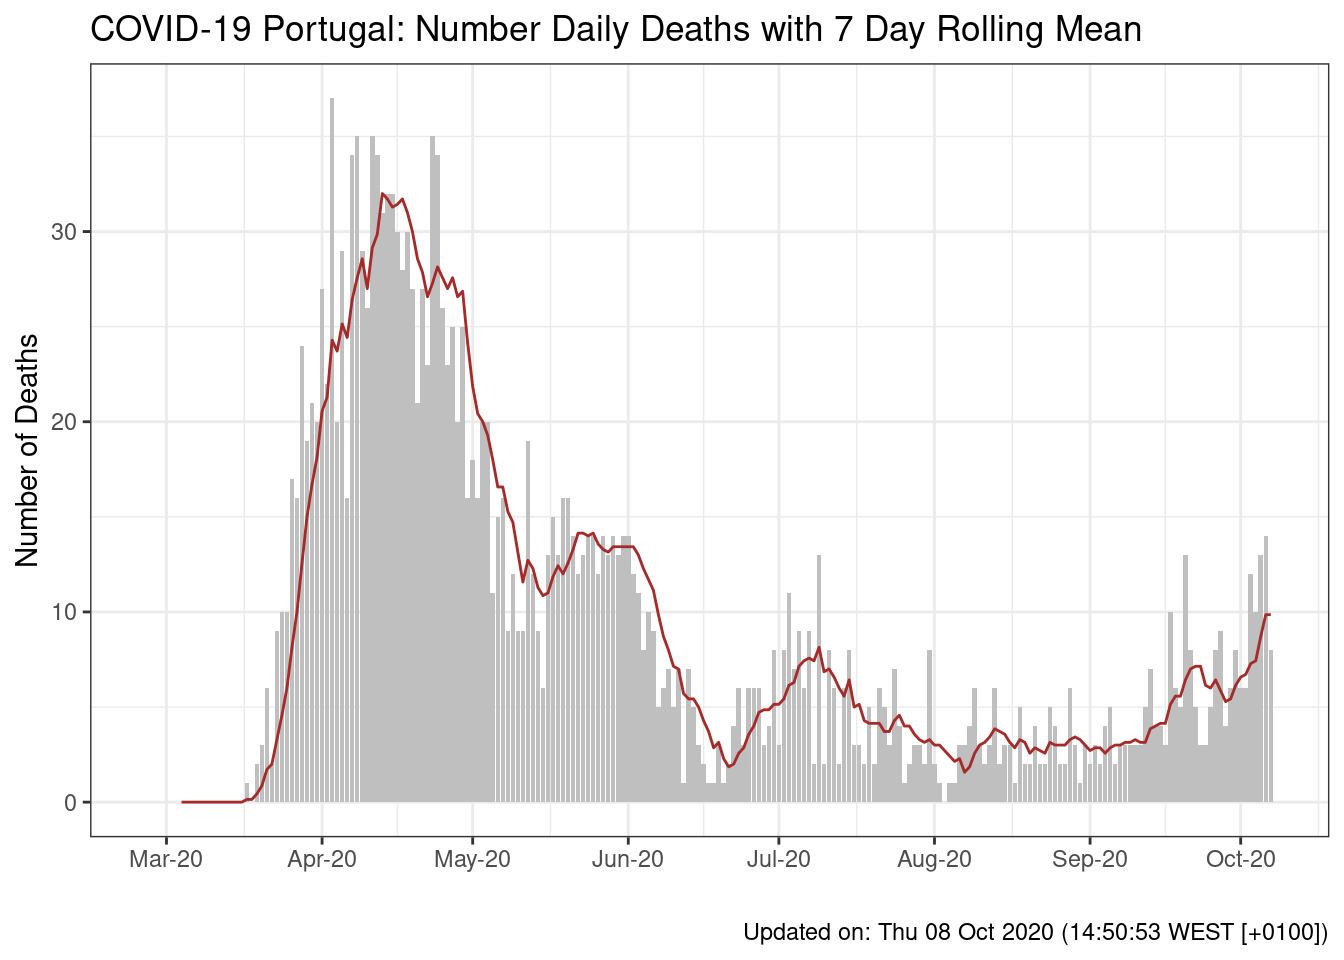
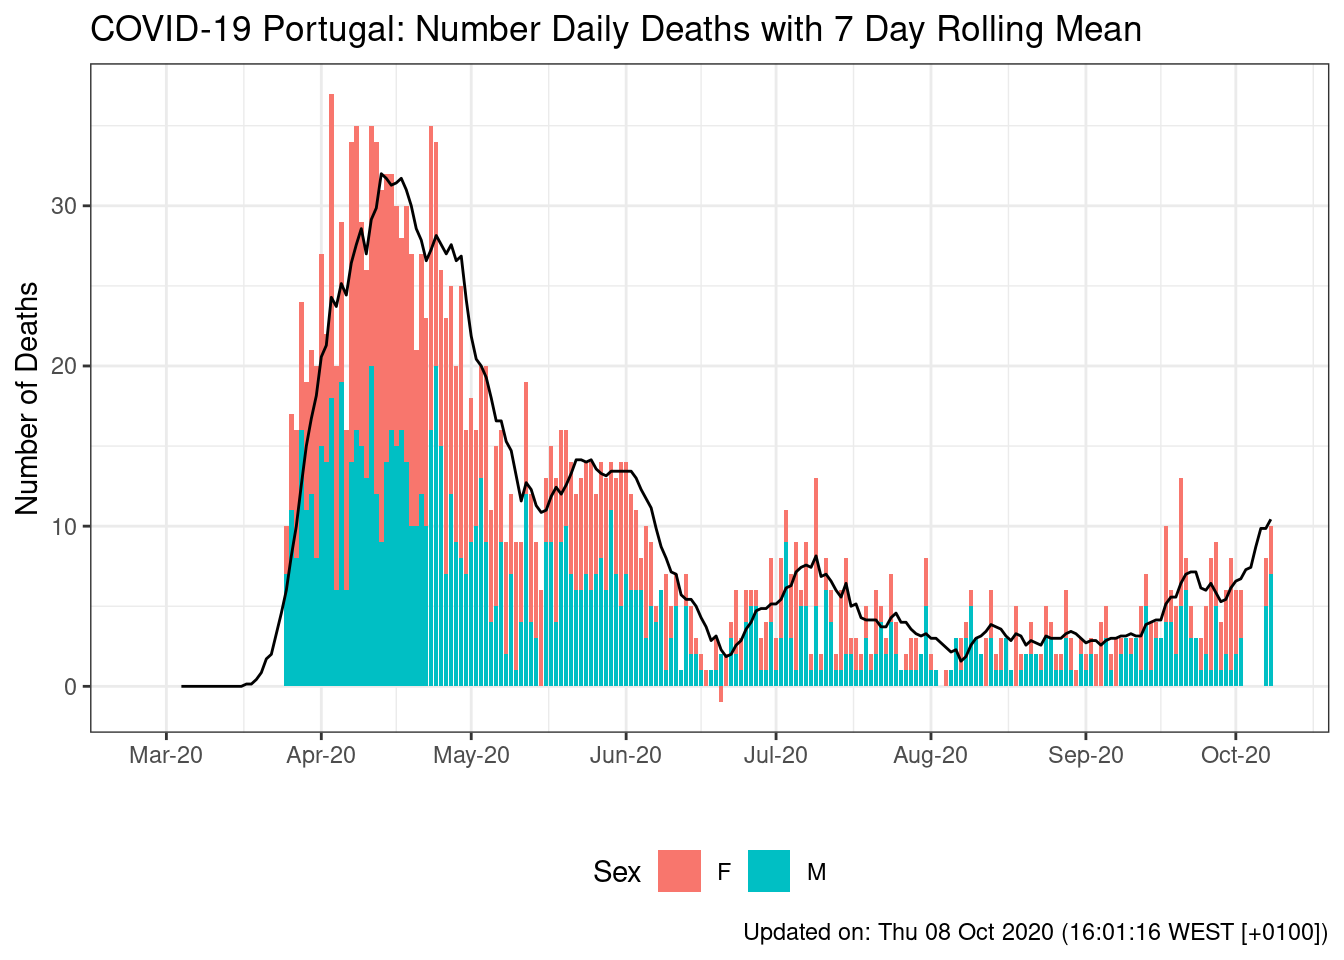
Manual data update and correction to by sex graph

diff --git a/README.md b/README.md
@@ -4,9 +4,9 @@ README](https://github.com/CEAUL/Dados_COVID-19_PT/workflows/Render%20README/bad
 
 ## Daily Portuguese COVID-19 Data
 
-**Last updated: Thu 08 Oct 2020 (14:50:52 WEST \[+0100\])**
+**Last updated: Thu 08 Oct 2020 (16:01:15 WEST \[+0100\])**
 
-  - Data available from **26 Feb 2020** until **07 Oct 2020** (225
+  - Data available from **26 Feb 2020** until **08 Oct 2020** (226
     days).
 
 ### Download User Friendly Version
@@ -45,18 +45,18 @@ The original data were downloaded from an API provide by VOST
 
 ### Summary: Last 10 (available) Days
 
-|            Date | Cases\_7\_Day\_Mean |        Cases |       Active |    Recovered |     Deaths |
-| --------------: | ------------------: | -----------: | -----------: | -----------: | ---------: |
-| Mon 28 Sep 2020 |               689.9 | 74029 (+425) | 24188 (+184) | 47884 (+237) |  1957 (+4) |
-| Tue 29 Sep 2020 |               722.0 | 74717 (+688) | 24561 (+373) | 48193 (+309) |  1963 (+6) |
-| Wed 30 Sep 2020 |               725.3 | 75542 (+825) | 25041 (+480) | 48530 (+337) |  1971 (+8) |
-| Thu 01 Oct 2020 |               748.6 | 76396 (+854) | 25482 (+441) | 48937 (+407) |  1977 (+6) |
-| Fri 02 Oct 2020 |               747.0 | 77284 (+888) | 25942 (+460) | 49359 (+422) |  1983 (+6) |
-| Sat 03 Oct 2020 |               758.3 | 78247 (+963) | 26407 (+465) | 49845 (+486) | 1995 (+12) |
-| Sun 04 Oct 2020 |               792.4 | 79151 (+904) | 26939 (+532) | 50207 (+362) | 2005 (+10) |
-| Mon 05 Oct 2020 |               836.6 | 79885 (+734) | 27413 (+474) | 50454 (+247) | 2018 (+13) |
-| Tue 06 Oct 2020 |               799.3 | 80312 (+427) | 27568 (+155) | 50712 (+258) | 2032 (+14) |
-| Wed 07 Oct 2020 |               816.3 | 81256 (+944) | 28179 (+611) | 51037 (+325) |  2040 (+8) |
+|            Date | Cases\_7\_Day\_Mean |         Cases |       Active |    Recovered |     Deaths |
+| --------------: | ------------------: | ------------: | -----------: | -----------: | ---------: |
+| Tue 29 Sep 2020 |               722.0 |  74717 (+688) | 24561 (+373) | 48193 (+309) |  1963 (+6) |
+| Wed 30 Sep 2020 |               725.3 |  75542 (+825) | 25041 (+480) | 48530 (+337) |  1971 (+8) |
+| Thu 01 Oct 2020 |               748.6 |  76396 (+854) | 25482 (+441) | 48937 (+407) |  1977 (+6) |
+| Fri 02 Oct 2020 |               747.0 |  77284 (+888) | 25942 (+460) | 49359 (+422) |  1983 (+6) |
+| Sat 03 Oct 2020 |               758.3 |  78247 (+963) | 26407 (+465) | 49845 (+486) | 1995 (+12) |
+| Sun 04 Oct 2020 |               792.4 |  79151 (+904) | 26939 (+532) | 50207 (+362) | 2005 (+10) |
+| Mon 05 Oct 2020 |               836.6 |  79885 (+734) | 27413 (+474) | 50454 (+247) | 2018 (+13) |
+| Tue 06 Oct 2020 |               799.3 |  80312 (+427) | 27568 (+155) | 50712 (+258) | 2032 (+14) |
+| Wed 07 Oct 2020 |               816.3 |  81256 (+944) | 28179 (+611) | 51037 (+325) |  2040 (+8) |
+| Thu 08 Oct 2020 |               876.9 | 82534 (+1278) | 28967 (+788) | 51517 (+480) | 2050 (+10) |
 
 Change from previous day in brackets.
 
@@ -81,19 +81,19 @@ CVPT <- fread(here("data", "covid19pt_DSSG_Long.csv"))
 # Looking at the data:
 tail(CVPT)
 ##          data   origVars   origType other symptoms sex ageGrpLower ageGrpUpper
-## 1: 2020-10-02 vigilancia vigilancia                All                        
-## 2: 2020-10-03 vigilancia vigilancia                All                        
-## 3: 2020-10-04 vigilancia vigilancia                All                        
-## 4: 2020-10-05 vigilancia vigilancia                All                        
-## 5: 2020-10-06 vigilancia vigilancia                All                        
-## 6: 2020-10-07 vigilancia vigilancia                All                        
+## 1: 2020-10-03 vigilancia vigilancia                All                        
+## 2: 2020-10-04 vigilancia vigilancia                All                        
+## 3: 2020-10-05 vigilancia vigilancia                All                        
+## 4: 2020-10-06 vigilancia vigilancia                All                        
+## 5: 2020-10-07 vigilancia vigilancia                All                        
+## 6: 2020-10-08 vigilancia vigilancia                All                        
 ##    ageGrp   region value valueUnits
-## 1:        Portugal 45613      Count
-## 2:        Portugal 46228      Count
-## 3:        Portugal 46348      Count
-## 4:        Portugal 46272      Count
-## 5:        Portugal 46437      Count
-## 6:        Portugal 46023      Count
+## 1:        Portugal 46228      Count
+## 2:        Portugal 46348      Count
+## 3:        Portugal 46272      Count
+## 4:        Portugal 46437      Count
+## 5:        Portugal 46023      Count
+## 6:        Portugal 46182      Count
 
 # Order data by original variable name and date.
 setkeyv(CVPT, c("origVars", "data"))
@@ -116,11 +116,14 @@ library(magrittr)
 
 # Change the ggplot theme.
 theme_set(theme_bw())
+obMF <- CV[origType=="obitos" & sex %chin% c("M", "F") & ageGrp=="" & region == "Portugal"]
+obAll <- CV[origType=="obitos" & sex %chin% c("All") & ageGrp=="" & region == "Portugal"][ 
+  , sex := NA]
 
-CV[origType=="obitos" & sex %chin% c("All") & ageGrp=="" & region == "Portugal"] %>%
-  ggplot(aes(x=data, y=dailyChange)) +
-  geom_bar(stat = "identity", fill = "grey75") +
-  geom_line(aes(x = data, y = mean7Day), group=1, colour = "brown") +
+obMF %>% 
+  ggplot(aes(x=data, y=dailyChange, fill = sex)) +
+  geom_bar(stat = "identity") +
+  geom_line(data = obAll, aes(x = data, y = mean7Day), group=1) +
   scale_x_date(date_breaks = "1 months",
                date_labels = "%b-%y",
                limits = c(min(cvwd$data2, na.rm = TRUE), NA)) +
@@ -130,9 +133,10 @@ CV[origType=="obitos" & sex %chin% c("All") & ageGrp=="" & region == "Portugal"]
     x = "",
     y = "Number of Deaths",
     fill = "Sex",
+    colour = "",
     caption = paste0("Updated on: ", format(Sys.time(), "%a %d %b %Y (%H:%M:%S %Z [%z])"))
     )
-## Warning: Removed 1 rows containing missing values (position_stack).
+## Warning: Removed 64 rows containing missing values (position_stack).
 ## Warning: Removed 7 row(s) containing missing values (geom_path).
 ```
 
@@ -156,7 +160,7 @@ CV[origType=="confirmados" & ageGrp=="" & region!="Portugal"] %>%
     caption = paste0("Updated on: ", format(Sys.time(), "%a %d %b %Y (%H:%M:%S %Z [%z])")),
     colour = "Region")
 ## Warning: Transformation introduced infinite values in continuous y-axis
-## Warning: Removed 209 row(s) containing missing values (geom_path).
+## Warning: Removed 210 row(s) containing missing values (geom_path).
 ```
 
 <img src="README_figs/README-casesbyRegion-1.png" width="672" />
